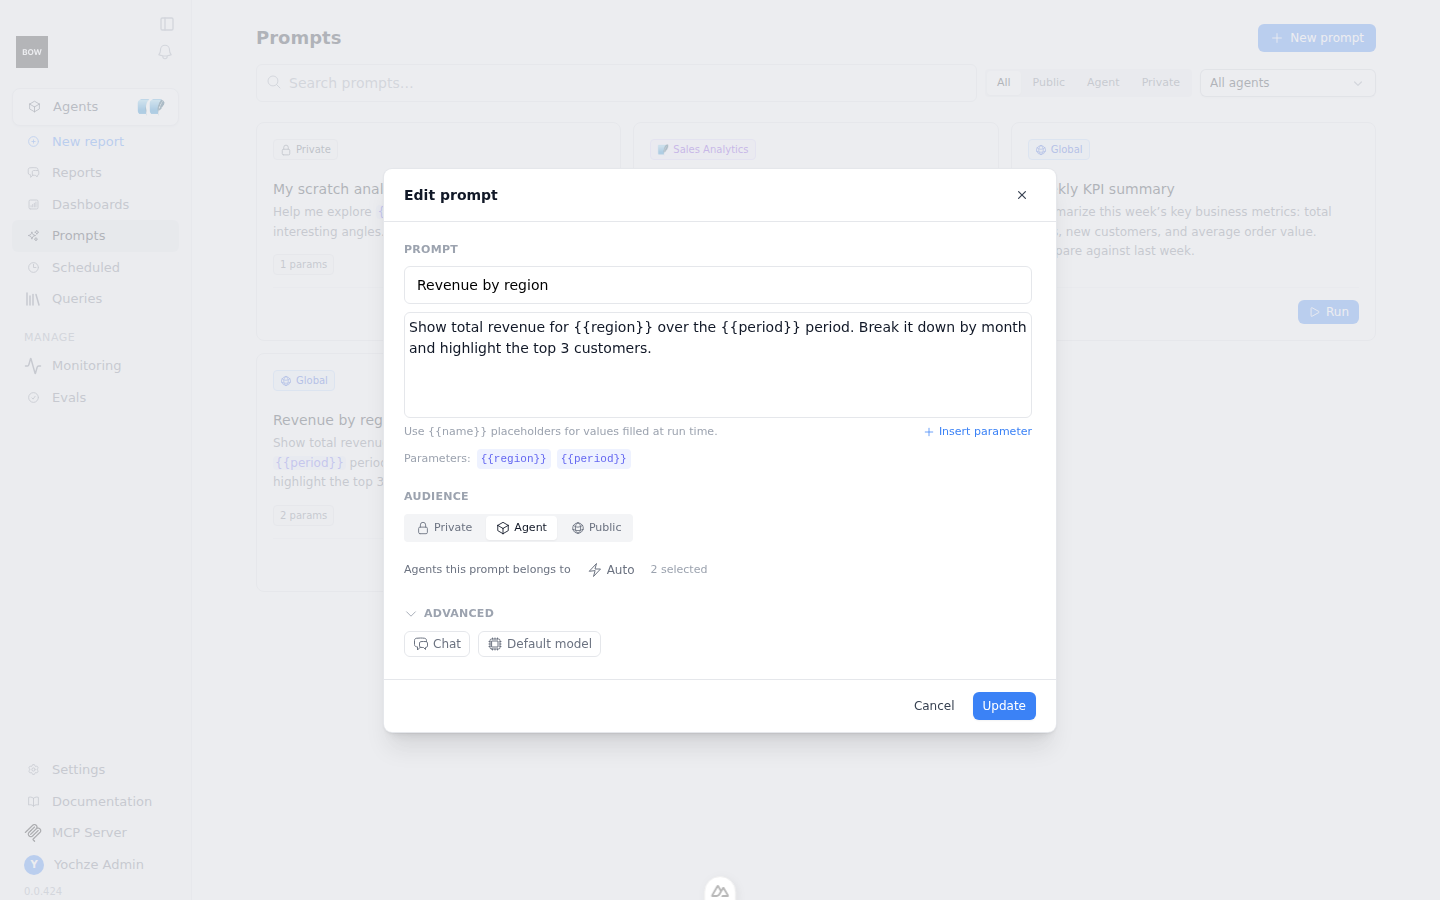
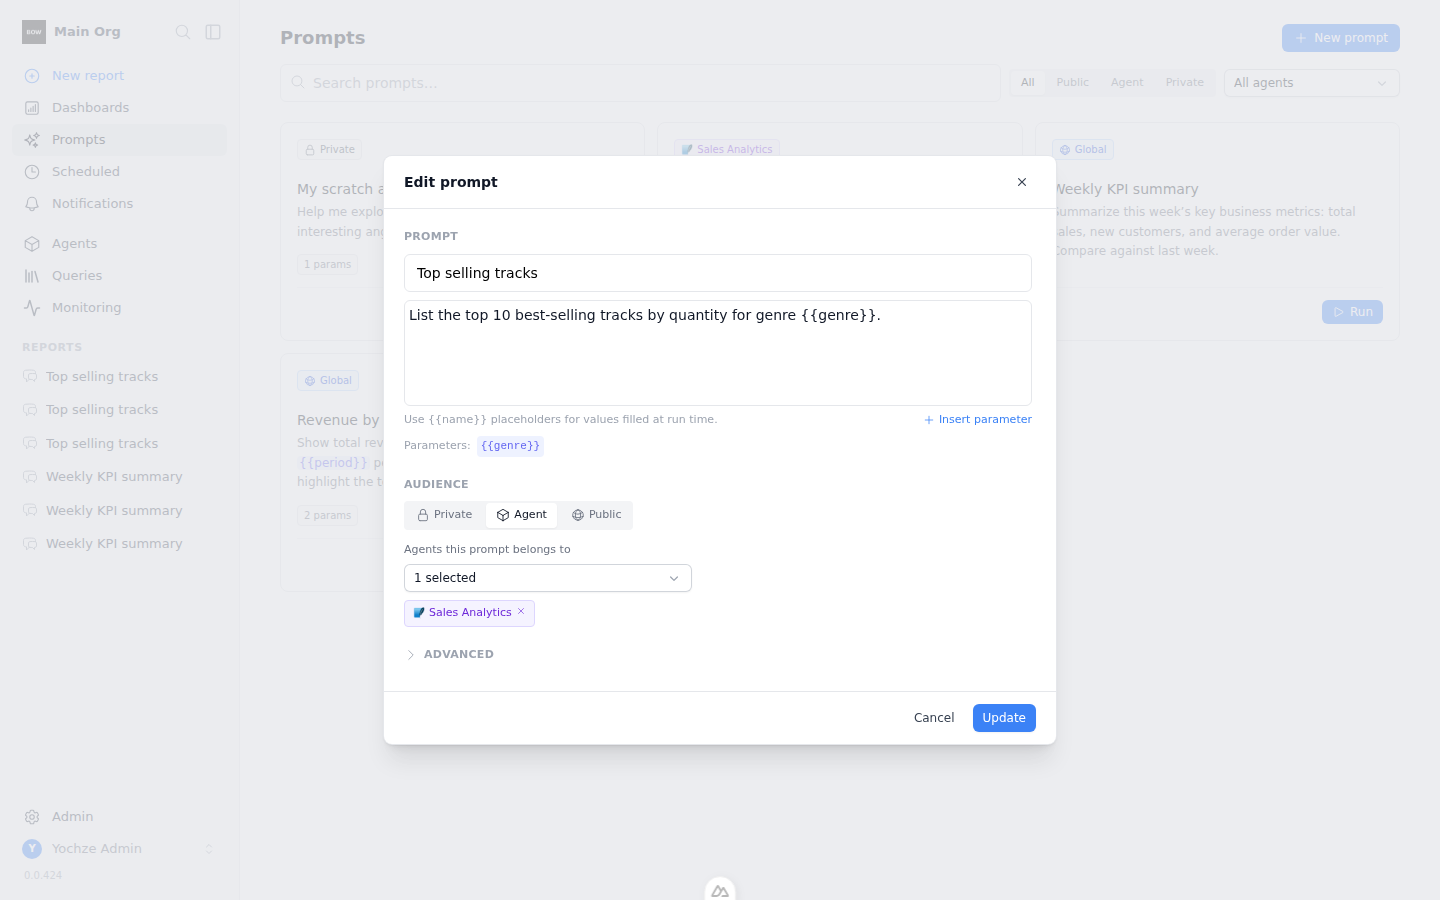
fix(prompts): Agent audience shows the agent by name, not "Auto"
DataSourceSelector renders "Auto" when all available agents are selected; in a
single-agent org the prompt’s one agent == all, so it collapsed to "Auto · 1
selected" and hid the name. Replaced it in the prompt modal with an explicit
USelectMenu multiselect + named chips (DataSourceIcon + agent name); selection is
always explicit (no "empty == all"). New agent prompts start empty with a
"Select agents…" placeholder and require >=1. View modal renders icon+name too.

Claude-Session: https://claude.ai/code/session_01CeW2TE3DB9EkaYDbetgfq5

diff --git a/frontend/components/prompt/PromptEditModal.vue b/frontend/components/prompt/PromptEditModal.vue
@@ -72,14 +72,48 @@
             </button>
           </div>
 
-          <!-- Agents: reuse the shared DataSourceSelector (auto/empty == all agents) -->
-          <div v-if="audience === 'agent'" class="flex items-center gap-2">
-            <span class="text-[11px] text-gray-500 dark:text-gray-400">{{ $t('prompts.selectAgents') }}</span>
-            <DataSourceSelector
-              v-model:selectedDataSources="selectedAgents"
-              permission="update_data_source"
-            />
-            <span class="text-[11px] text-gray-400 dark:text-gray-500">{{ agentSelectionHint }}</span>
+          <!-- Agents: explicit multiselect — always shows the agent name(s) by
+               name (DataSourceIcon + name). Never collapses to "Auto". -->
+          <div v-if="audience === 'agent'">
+            <div class="text-[11px] text-gray-500 dark:text-gray-400 mb-1.5">{{ $t('prompts.selectAgents') }}</div>
+            <div v-if="!manageableAgents.length" class="text-[11px] text-gray-400">{{ $t('prompts.noManageableAgents') }}</div>
+            <template v-else>
+              <USelectMenu
+                v-model="agentIds"
+                :options="agentOptions"
+                option-attribute="name"
+                value-attribute="id"
+                multiple
+                size="xs"
+                class="text-xs w-72"
+                :placeholder="$t('prompts.selectAgentsPlaceholder')"
+                :ui="{ option: { base: 'text-xs py-1.5' } }"
+              >
+                <template #label>
+                  <span v-if="!agentIds.length" class="text-gray-400">{{ $t('prompts.selectAgentsPlaceholder') }}</span>
+                  <span v-else class="text-xs truncate">{{ $t('prompts.nAgentsSelected', { n: agentIds.length }) }}</span>
+                </template>
+                <template #option="{ option }">
+                  <DataSourceIcon v-if="option.type" :type="option.type" class="h-3.5 w-auto flex-shrink-0" />
+                  <span class="text-xs truncate">{{ option.name }}</span>
+                </template>
+              </USelectMenu>
+
+              <!-- Selected agents shown explicitly as named chips -->
+              <div v-if="selectedAgentChips.length" class="flex flex-wrap gap-1.5 mt-2">
+                <span
+                  v-for="a in selectedAgentChips"
+                  :key="a.id"
+                  class="inline-flex items-center gap-1 text-[11px] px-2 py-1 rounded border border-violet-200 dark:border-violet-900 text-violet-700 dark:text-violet-300 bg-violet-50 dark:bg-violet-900/20"
+                >
+                  <DataSourceIcon :type="a.type" class="h-3 w-auto" />
+                  {{ a.name }}
+                  <button type="button" class="hover:text-red-500" @click="removeAgent(a.id)">
+                    <UIcon name="heroicons-x-mark" class="w-2.5 h-2.5" />
+                  </button>
+                </span>
+              </div>
+            </template>
           </div>
 
           <p v-if="audience === 'global'" class="text-[11px] text-gray-400 dark:text-gray-500">{{ $t('prompts.globalHint') }}</p>
@@ -123,7 +157,6 @@
 <script setup lang="ts">
 import { ref, reactive, computed, watch } from 'vue'
 import MentionInput from '@/components/prompt/MentionInput.vue'
-import DataSourceSelector from '@/components/prompt/DataSourceSelector.vue'
 import ModeSelector from '@/components/prompt/ModeSelector.vue'
 import ModelSelector from '@/components/prompt/ModelSelector.vue'
 import { usePrompts } from '~/composables/usePrompts'
@@ -166,10 +199,10 @@ const form = reactive({
   model_id: null as string | null,
 })
 
-// Audience is a single explicit choice. 'agent' uses the DataSourceSelector.
+// Audience is a single explicit choice. 'agent' uses an explicit multiselect.
 const audience = ref<Audience>('private')
-// Selected agent objects from DataSourceSelector ({ id, name, type, ... }).
-const selectedAgents = ref<any[]>([])
+// Explicitly selected agent ids (never collapses to "all"/"auto").
+const agentIds = ref<string[]>([])
 
 // Parameters are derived from the prompt text — shown read-only as chips.
 const detectedParams = computed(() => extractParamNames(form.text))
@@ -195,11 +228,23 @@ const audienceOptions = computed(() => {
   return opts
 })
 
-// DataSourceSelector "auto"/empty selection means ALL agents. Reflect that.
-const agentSelectionHint = computed(() => {
-  if (!selectedAgents.value.length) return t('prompts.allAgentsHint')
-  return t('prompts.nAgentsSelected', { n: selectedAgents.value.length })
-})
+// Options for the agent multiselect (only agents the user can manage).
+const agentOptions = computed(() =>
+  manageableAgents.value.map(a => ({ id: a.id, name: a.name, type: a.type })),
+)
+
+// Selected agents resolved to { id, name, type } for the named chips. Always
+// explicit — never "Auto".
+const selectedAgentChips = computed(() =>
+  agentIds.value.map(id => {
+    const a = (props.agents || []).find(x => x.id === id)
+    return { id, name: a?.name || id, type: a?.type }
+  }),
+)
+
+function removeAgent(id: string) {
+  agentIds.value = agentIds.value.filter(x => x !== id)
+}
 
 function seed() {
   const p = props.prompt
@@ -213,13 +258,8 @@ function seed() {
   // Map scope → audience.
   const scope = (p?.scope as PromptScope) || 'private'
   audience.value = (scope === 'global' ? 'global' : scope === 'agent' ? 'agent' : 'private')
-  // Seed selected agents from the prompt's data_source_ids (map to objects the
-  // selector knows; it re-aligns by id once it loads its own list).
-  const ids = p?.data_source_ids || []
-  selectedAgents.value = ids.map(id => {
-    const a = (props.agents || []).find(x => x.id === id)
-    return a ? { id: a.id, name: a.name, type: a.type } : { id }
-  })
+  // Seed explicitly selected agent ids from the prompt's data_source_ids.
+  agentIds.value = [...(p?.data_source_ids || [])]
 
   // Fall back to an audience the user is allowed to set.
   if (!audienceOptions.value.some(o => o.value === audience.value)) {
@@ -244,16 +284,14 @@ function insertParameterPrompt() {
   form.text = `${form.text || ''}{{${clean}}}`
 }
 
-// Resolve the agent ids to persist. Under 'agent' audience, an empty selection
-// (DataSourceSelector "auto") means ALL agents the user can manage.
-const resolvedAgentIds = computed<string[]>(() => {
-  if (audience.value !== 'agent') return []
-  if (selectedAgents.value.length) return selectedAgents.value.map((a: any) => a.id)
-  return manageableAgents.value.map(a => a.id)
-})
+// Agent ids to persist — always the explicit selection (no "auto == all").
+const resolvedAgentIds = computed<string[]>(() =>
+  audience.value === 'agent' ? [...agentIds.value] : [],
+)
 
 const canSave = computed(() => {
   if (!form.text.trim()) return false
+  // scope=agent requires at least one explicitly selected agent (backend enforces too).
   if (audience.value === 'agent' && resolvedAgentIds.value.length === 0) return false
   return true
 })

diff --git a/frontend/components/prompt/PromptViewModal.vue b/frontend/components/prompt/PromptViewModal.vue
@@ -48,17 +48,17 @@
           </div>
         </div>
 
-        <!-- Agents / scope -->
-        <div v-if="prompt?.scope === 'agent' && agentNamesList.length">
+        <!-- Agents / scope: always explicit DataSourceIcon + name -->
+        <div v-if="prompt?.scope === 'agent' && agentChips.length">
           <div class="text-[11px] uppercase tracking-wide text-gray-400 dark:text-gray-500 mb-1">{{ $t('prompts.viewAgents') }}</div>
           <div class="flex flex-wrap gap-1.5">
             <span
-              v-for="(name, i) in agentNamesList"
-              :key="i"
+              v-for="a in agentChips"
+              :key="a.id"
               class="inline-flex items-center gap-1 text-[11px] px-1.5 py-0.5 rounded border border-violet-200 dark:border-violet-900 text-violet-700 dark:text-violet-300 bg-violet-50 dark:bg-violet-900/20"
             >
-              <UIcon name="heroicons-cube" class="w-3 h-3" />
-              {{ name }}
+              <DataSourceIcon :type="a.type" class="h-3 w-auto" />
+              {{ a.name }}
             </span>
           </div>
         </div>
@@ -123,7 +123,8 @@ const { extractParamNames } = usePromptFill()
 const props = defineProps<{
   modelValue: boolean
   prompt: Prompt | null
-  agentNames?: Record<string, string>
+  // id → { name, type } for the agent chips' DataSourceIcon.
+  agentMap?: Record<string, { name: string; type?: string }>
   authorNames?: Record<string, string>
   running?: boolean
 }>()
@@ -152,9 +153,9 @@ function placeholder(name: string): string {
   return '{{' + name + '}}'
 }
 
-const agentNamesList = computed(() => {
+const agentChips = computed(() => {
   const ids = props.prompt?.data_source_ids || []
-  return ids.map(id => props.agentNames?.[id] || id)
+  return ids.map(id => ({ id, name: props.agentMap?.[id]?.name || id, type: props.agentMap?.[id]?.type }))
 })
 
 const authorName = computed(() => {

diff --git a/frontend/pages/prompts/index.vue b/frontend/pages/prompts/index.vue
@@ -103,7 +103,7 @@
     <PromptViewModal
       v-model="viewOpen"
       :prompt="activePrompt"
-      :agent-names="agentNames"
+      :agent-map="agentMap"
       :running="runningId === activePrompt?.id"
       @run="onRun"
       @edit="openEdit"